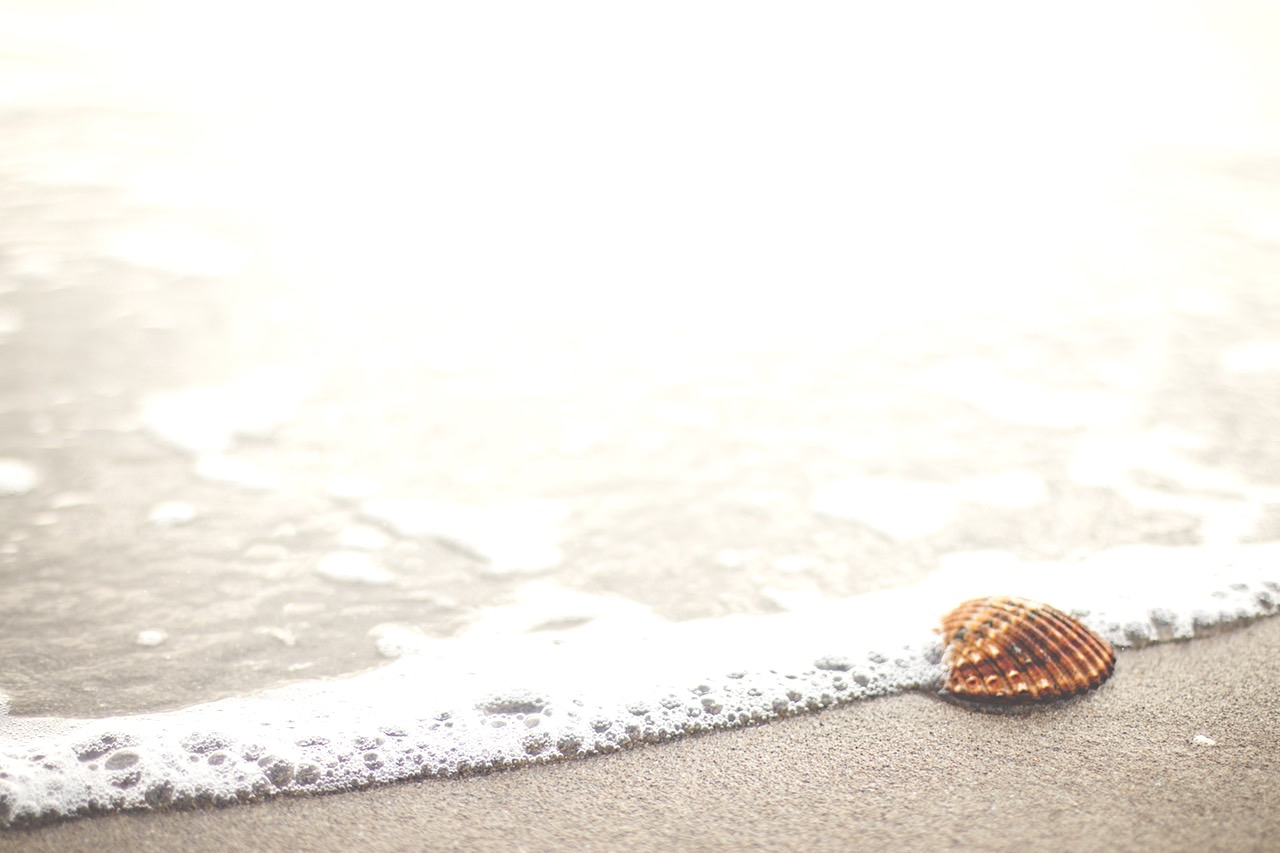
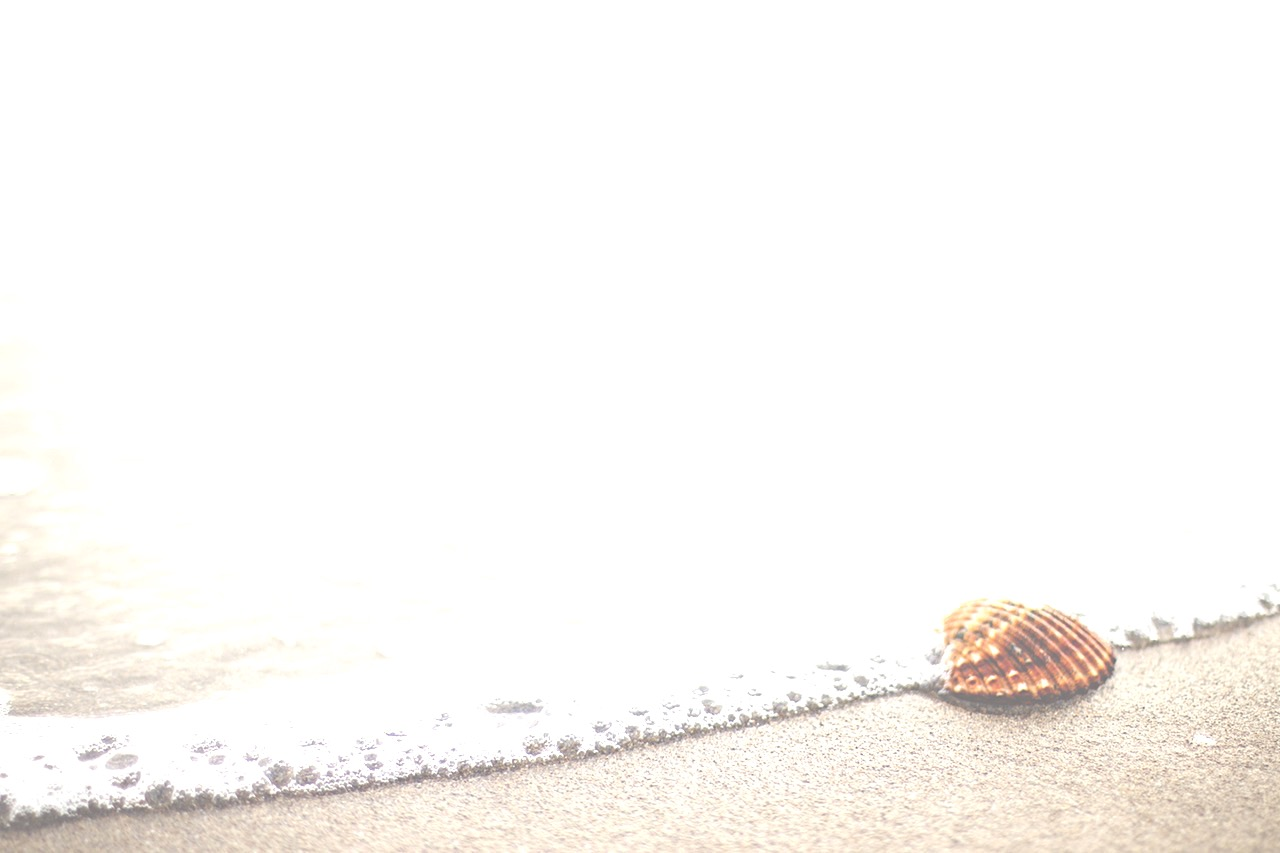
Image update

diff --git a/index.html b/index.html
@@ -46,16 +46,20 @@
     </header>
 
     <main>
-      <section>
+      <section id="about">
         <!-- About -->
-        <div class="row container">
+        <h2>About Us</h2>
+        <div class="row container"  >
+
           <div class="col-md-6">
-            <div id="about" >
-              <p>Bournmouth Campervans is family run Campervan rental business based between New Forest and the stunning rural Dorest / Jurassic coast.</p>
+            <div>
+              <p>Lorem ipsum dolor sit amet, consectetur adipiscing elit, sed do eiusmod tempor incididunt ut labore et dolore magna aliqua. </p>
+              <p>Ut enim ad minim veniam, quis nostrud exercitation ullamco laboris nisi ut aliquip ex ea commodo consequat. Duis aute irure dolor in reprehenderit in voluptate velit esse cillum dolore eu fugiat nulla pariatur.</p>
+              <p>Lorem ipsum dolor sit amet, consectetur adipiscing elit, sed do eiusmod tempor incididunt ut labore et dolore magna aliqua. </p>
             </div>
           </div>
           <div class="col-md-6">
-            <img src="assets/3.jpg" alt="Bournemouth Campervan Countryside Image">
+            <img src="assets/beach_2.JPG" alt="Bournemouth Campervan Countryside Image">
           </div>
         </div>
       </section>
@@ -66,9 +70,84 @@
       <!-- The Campervan -->
         <div>
           <h2>Our Campervans</h2>
+          <!--  ******* MR BUMP ************ -->
+          <p class="van_name"><strong>Mr Bump</strong></p>
+          <p>Brazillian Danbury Campervan only built in 2006.One of the last classic air-cooled engines for that authentic campervan experience!</p>
+
+          <div class="row">
+            <div class="col-md-6">
+              <div id="carouselExampleIndicators_2" class="carousel slide" data-ride="carousel">
+                <ol class="carousel-indicators">
+                  <li data-target="#carouselExampleIndicators_2" data-slide-to="0" class="active"></li>
+                  <li data-target="#carouselExampleIndicators_2" data-slide-to="1"></li>
+                  <li data-target="#carouselExampleIndicators_2" data-slide-to="2"></li>
+                  <li data-target="#carouselExampleIndicators_2" data-slide-to="3"></li>
+                </ol>
+                <div class="carousel-inner" role="listbox">
+                  <div class="carousel-item active">
+                    <img class="d-block img-fluid" src="./assets/side_view_1.JPG" alt="First slide">
+                  </div>
+                  <div class="carousel-item">
+                    <img class="d-block img-fluid" src="./assets/side_view_2.JPG" alt="Second slide">
+                  </div>
+                  <div class="carousel-item">
+                    <img class="d-block img-fluid" src="./assets/Interior.JPG" alt="Third slide">
+                  </div>
+                  <div class="carousel-item">
+                    <img class="d-block img-fluid" src="./assets/beach_2.JPG" alt="Fourth slide">
+                  </div>
+                </div>
+                <a class="carousel-control-prev" href="#carouselExampleIndicators_2" role="button" data-slide="prev">
+                  <span class="carousel-control-prev-icon" aria-hidden="true"></span>
+                  <span class="sr-only">Previous</span>
+                </a>
+                <a class="carousel-control-next" href="#carouselExampleIndicators_2" role="button" data-slide="next">
+                  <span class="carousel-control-next-icon" aria-hidden="true"></span>
+                  <span class="sr-only">Next</span>
+                </a>
+              </div>
+            </div>
+            <div class="col-md-2">
+              <ul>
+                <li><strong>Van Name: </strong>Mr Bump</li>
+                <li><strong>Van Type:</strong> VW Transporter T2 </li>
+                <li><strong>Engine:</strong> 1.6 litre, aircooled </li>
+                <li><strong>Fuel type:</strong> Unleaded petrol</li>
+                <li><strong>Transmission:</strong> Manual </li>
+                <li><strong>Radio:</strong> JVC tuner / CD player with AUX input socket for iPOD & 2 speakers </li>
+                <li><strong>Seating:</strong> Two in front, two further belted rear bench seats</li>
+                <li><strong>Seatbelts:</strong> 3-point inertia belts in front and in rear</li>
+                <li><strong>Roof rack:</strong> Small cab top roof rack </li>
+                <li><strong>Bike rack:</strong> N/A </li>
+              </ul>
+            </div>
+            <div class="col-md-2">
+              <ul>
+                <li><strong>Roof:</strong> Hydraulic elevating roof with vinyl sides & roof light</li>
+                <li><strong>Sleeping:</strong> Bench seat folds down to form double bed with room for two more in roof</li>
+                <li><strong>Berths:</strong> 4</li>
+                <li><strong>Dining:</strong> Removable main table sits in centre of floor</li>
+                <li><strong>Fridge:</strong> Fridge freezer</li>
+                <li><strong>Cooking:</strong> Twin-burner gas hob,oven and grill</li>
+                <li><strong>Washing:</strong> SStainless steel sink and drainer. Fresh water container</li>
+                <li><strong>Curtains:</strong> New curtains on all windows. Also blackout/thermal blinds</li>
+              </ul>
+            </div>
+            <div class="col-md-2">
+              <ul>
+                <li><strong>Heating:</strong> Webasco heate</li>
+                <li><strong>Lighting:</strong> 12v fluorescent light Plus halogen spot lights</li>
+                <li><strong>Storage:</strong> Storage in cupboards and wardrobe at rear</li>
+                <li><strong>Energy / Electrical eqpt:</strong> Mains hook-up cable supplied. One butane cylinder. Leisure battery</li>
+                <li><strong>Fire equipment:</strong> Fire extinguisher & fire blanket</li>
+                <li><strong>Self catering:</strong> Comprehensive inventory included</li>
+              </ul>
+            </div>
+          </div>
+
           <!--  ******* PINGU ************ -->
-          <p><strong>Pingu</strong></p>
-          <p>VW t4 Autosleeper factory conversion with hightop roof allowing for extra headroom /bedspace in vehicle.Modern 5speed gearbox, drives as easily as a car.</p>
+          <p class="van_name"><strong>Pingu</strong></p>
+          <p>VW t4 Autosleeper factory conversion with hightop roof allowing for extra headroom /bedspace in vehicle. Modern 5speed gearbox, drives as easily as a car.</p>
         </div>
         <div class="row">
           <div class="col-md-6">
@@ -150,90 +229,7 @@
             </ul>
           </div>
         </div>
-        <!--  ******* MR BUMP ************ -->
-        <p><strong>Mr Bump</strong></p>
-        <p>Brazillian Danbury Campervan only built in 2006.One of the last classic air-cooled engines for that authentic campervan experience! Based in Bournemouth for easy access to the New Forest to the east and the Jurassic Coast / Purbecks to the west.</p>
 
-      <div class="row">
-        <div class="col-md-6">
-          <div id="carouselExampleIndicators_2" class="carousel slide" data-ride="carousel">
-            <ol class="carousel-indicators">
-              <li data-target="#carouselExampleIndicators_2" data-slide-to="0" class="active"></li>
-              <li data-target="#carouselExampleIndicators_2" data-slide-to="1"></li>
-              <li data-target="#carouselExampleIndicators_2" data-slide-to="2"></li>
-              <li data-target="#carouselExampleIndicators_2" data-slide-to="3"></li>
-              <li data-target="#carouselExampleIndicators_2" data-slide-to="4"></li>
-              <li data-target="#carouselExampleIndicators_2" data-slide-to="5"></li>
-            </ol>
-            <div class="carousel-inner" role="listbox">
-              <div class="carousel-item active">
-                <img class="d-block img-fluid" src="./assets/2_2.jpg" alt="First slide">
-              </div>
-              <div class="carousel-item">
-                <img class="d-block img-fluid" src="./assets/2_2.jpg" alt="Second slide">
-              </div>
-              <div class="carousel-item">
-                <img class="d-block img-fluid" src="./assets/2_2.jpg" alt="Third slide">
-              </div>
-              <div class="carousel-item">
-                <img class="d-block img-fluid" src="./assets/2_2.jpg" alt="Third slide">
-              </div>
-              <div class="carousel-item">
-                <img class="d-block img-fluid" src="./assets/2_2.jpg" alt="Third slide">
-              </div>
-              <div class="carousel-item">
-                <img class="d-block img-fluid" src="./assets/2_2.jpg" alt="Third slide">
-              </div>
-            </div>
-            <a class="carousel-control-prev" href="#carouselExampleIndicators_2" role="button" data-slide="prev">
-              <span class="carousel-control-prev-icon" aria-hidden="true"></span>
-              <span class="sr-only">Previous</span>
-            </a>
-            <a class="carousel-control-next" href="#carouselExampleIndicators_2" role="button" data-slide="next">
-              <span class="carousel-control-next-icon" aria-hidden="true"></span>
-              <span class="sr-only">Next</span>
-            </a>
-          </div>
-        </div>
-        <div class="col-md-2">
-          <ul>
-            <li><strong>Van Name:</strong> Pingu </li>
-            <li><strong>Van Type:</strong> VW Transporter T4 </li>
-            <li><strong>Engine:</strong> 2 litre </li>
-            <li><strong>Fuel type:</strong> Unleaded petrol</li>
-            <li><strong>Transmission:</strong> Manual </li>
-            <li><strong>Radio:</strong> JVC tuner / CD player with AUX input socket for iPOD & 4 speakers </li>
-            <li><strong>Seating:</strong> Two in front, two further belted rear bench seats</li>
-            <li><strong>Seatbelts:</strong> 3-point inertia belts in front and in rear</li>
-            <li><strong>Roof rack:</strong> N/A </li>
-            <li><strong>Bike rack:</strong> Fiamma bike rack for two cycles optional</li>
-          </ul>
-        </div>
-        <div class="col-md-2">
-          <ul>
-            <li><strong>Roof:</strong> Hightop</li>
-            <li><strong>Sleeping:</strong> main fold out double plus 2 chidrens berths in roof</li>
-            <li><strong>Berths:</strong> NA</li>
-            <li><strong>Dining:</strong> Removable main table sits in front of rear bench seat with additional table for front passenger captains seat</li>
-            <li><strong>Fridge:</strong> Fridge with freezer compartment</li>
-            <li><strong>Cooking:</strong> Twin-burner gas hob and grill</li>
-            <li><strong>Washing:</strong> Stainless steel sink with fresh water from tank</li>
-            <li><strong>Curtains:</strong> Thermal / blackout blinds</li>
-          </ul>
-        </div>
-        <div class="col-md-2">
-          <ul>
-            <li><strong>Heating:</strong> Engine heating for cab</li>
-            <li><strong>Lighting:</strong> 3x16v fluorescent lights plus standard courtesy lights</li>
-            <li><strong>Storage:</strong> Storage under bench seats and in cupboards,small wardrobe and rear boot</li>
-            <li><strong>Energy:</strong> Mains hook-up cable supplied. One butane cylinder</li>
-            <li><strong>Electrical eqpt:</strong> Mains hook-up cable supplied. One butane cylinder</li>
-            <li><strong>Fire equipment:</strong> Fire extinguisher & fire blanket</li>
-            <li><strong>Self catering:</strong> Comprehensive inventory included</li>
-            <li><strong>Optional Extras:</strong> Tent awning, director chairs, bedding and towels, and more</li>
-          </ul>
-        </div>
-      </div>
       </section>
 
     <section id="other">

diff --git a/css/style.css b/css/style.css
@@ -42,10 +42,11 @@ p {
 header {
   height: 85vh;
   width: 100%;
-  background-image: url("../assets/header_bg2.jpg");
+  background-image: url("../assets/beach_3.JPG");
   -webkit-clip-path: polygon(0 0, 100% 0, 100% 64%, 0% 100%);
   clip-path: polygon(0 0, 100% 0, 100% 64%, 0% 100%);
   background-size: cover;
+  background-position: bottom;
   margin-top: -80px;
   z-index: -1;
 }
@@ -89,12 +90,25 @@ img {
   border-radius: 10px;
 }
 
+.row {
+  margin: 20px auto;
+}
+
 #about {
-  max-width: 1200px;
+  max-width: 1000px;
   margin: 0 auto;
   padding-left: 15px;
   padding-right: 15px;
-  font-size: 1.75em;
+  font-size: 1.2em;
+
+}
+
+#about p {
+  text-align: justify;
+}
+
+#about img {
+  width: 100%;
 }
 
 .carousel {
@@ -123,7 +137,20 @@ img {
 
 #campervans p {
   max-width: 800px;
-  margin: 10px auto;
+  margin: 0 auto;
+}
+
+#campervans img {
+  width: 100%;
+  height: 350px;
+}
+
+#campervans .row {
+  margin: 10px auto 50px;
+}
+
+.van_name {
+  font-size: 22px;
 }
 
 #accom {
@@ -196,8 +223,8 @@ clip-path: polygon(0 0, 100% 10%, 100% 66%, 0% 100%);
 
 form {
   display: block;
-  width: 300px;
-  margin: 0 auto;
+  width: 400px;
+  margin: 30px auto 0;
 }
 
 form input {
@@ -226,11 +253,11 @@ button {
   border: solid 1px #fff;
   border-radius: 5px;
   padding: 10px 5px;
-  background: rgba(30, 30, 250, 0.75);
+  background: rgba(30, 250, 30, 0.65);
   color: #fff;
 }
 
 button:hover {
-  background: rgba(30, 30, 150, 0.75);
+  background: rgba(30, 250, 30, 1);
   cursor: pointer;
 }
